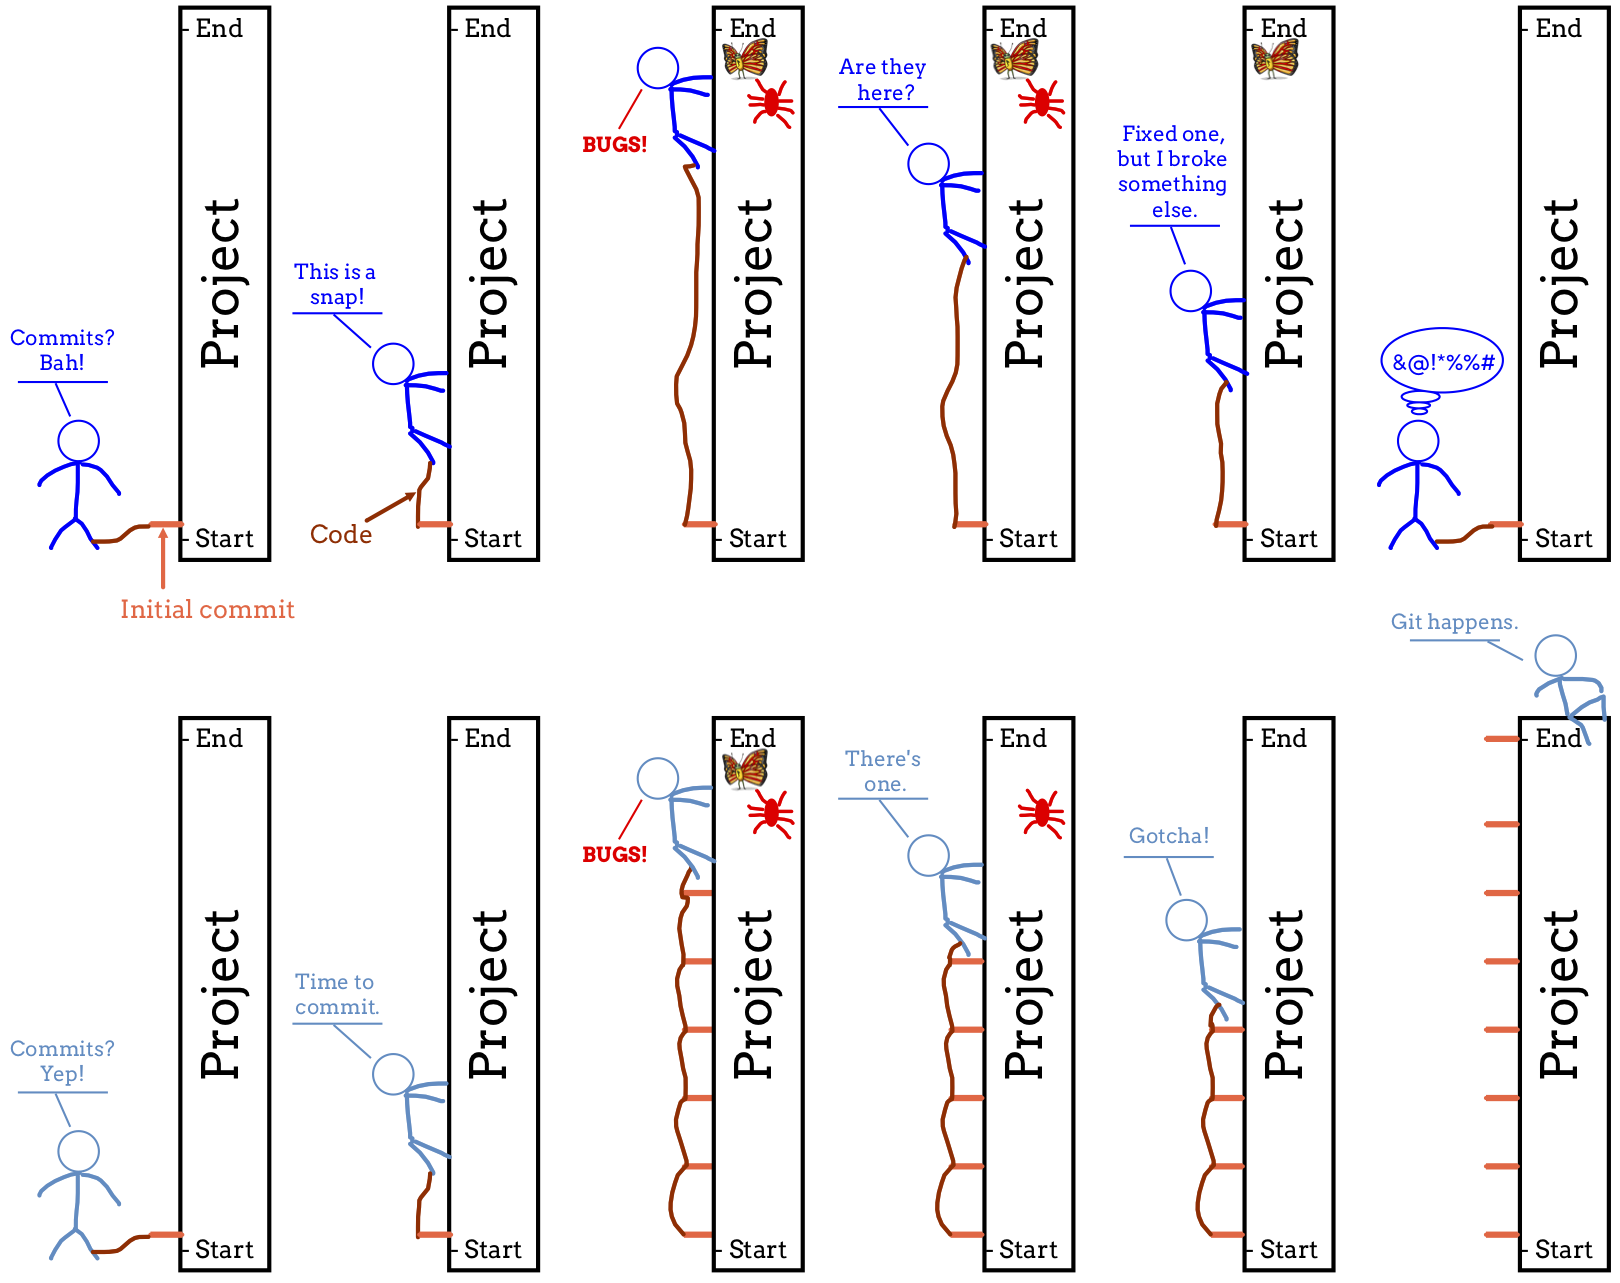
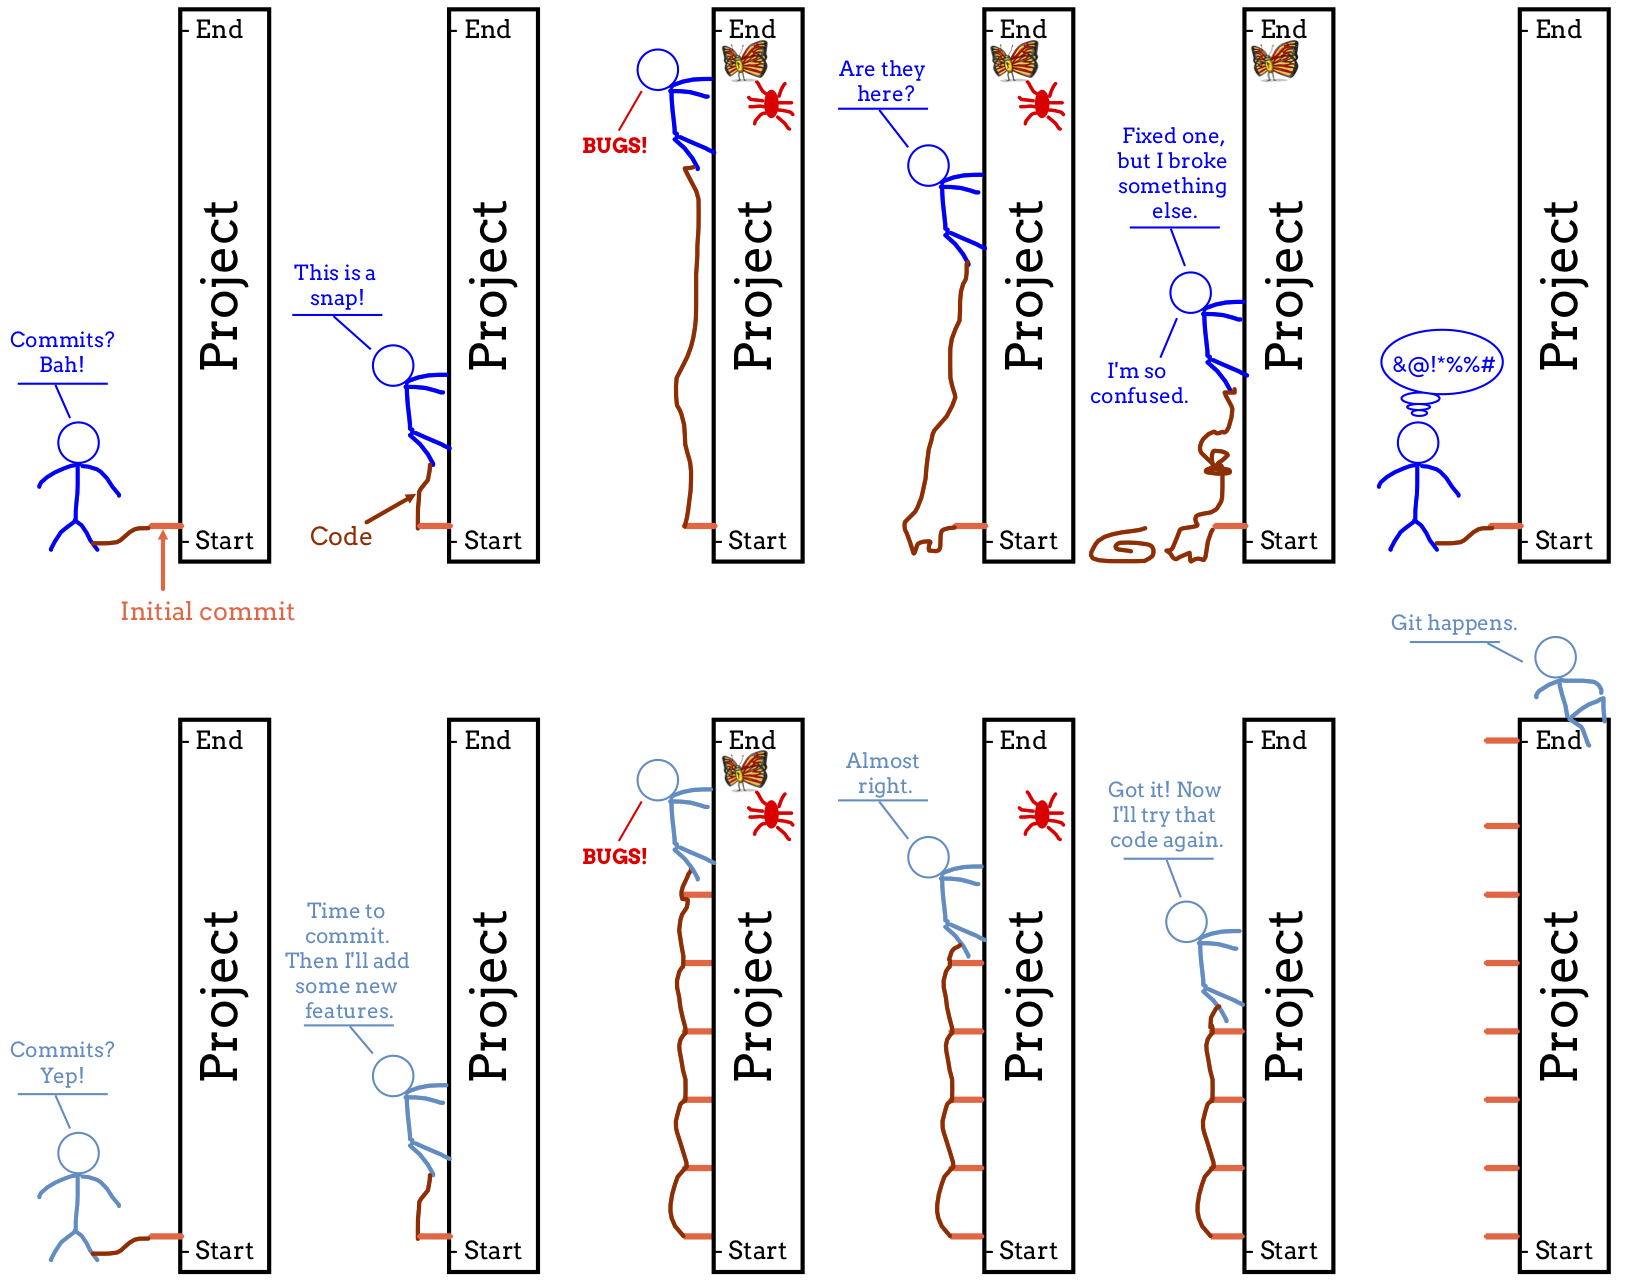
Added content to the log-nav.rst page.

diff --git a/src/chapters/git/log-nav.rst b/src/chapters/git/log-nav.rst
@@ -27,6 +27,8 @@ In the terminal, enter the command ``git log`` and examine the output. The
 command displays a record of every commit in the repository. The top entry is
 the most recent.
 
+.. _git-log-example:
+
 .. admonition:: Example
 
    The log for the three entries in the ``git_practice`` repo will look
@@ -61,25 +63,115 @@ the most recent.
 
 Each entry in the log contains four items:
 
-#. ``commit`` shows a 40-character long code. This code provides a key that Git
+#. ``commit`` shows a 40-character long code. This provides the key that Git
    uses to organize the commits in the repository.
 #. ``Author`` indicates who made the commit. This becomes important when
-   multiple coders work on the same project. For now, this line shows the name
-   used to login to the computer.
+   multiple coders work on the same project.
 #. ``Date`` indicates the day and time the commit was made.
 #. The indented line shows the comment saved with the commit. The more details
    we include in each comment, the easier it is to look through the log and
    know what changes were made between saves.
 
+Undo Changes Since Last Commit
+------------------------------
+
+New code usually doesn't work perfectly on the first try. This is especially
+true as our programs get larger.
+
+One big advantage of version control is that it allows us to save working code
+before we add and test a new feature. If the feature works, great! If not, we
+tinker with it until it does. However, sometimes we will just create a complete
+mess. When this happens, we need to step back, take a break, and then rethink
+how to make the feature work.
+
+Since we made a commit just before adding the new code, we can *restore* our
+most recent version. This wipes away all of the changes made since that commit.
+We can then start with our old, working code and try something different.
+
+Let's see how this works.
+
+.. admonition:: Try It!
+
+   Restoring your most recent commit acts like a great big *Undo*.
+
+   #. Add a few comment lines after the ``import`` statement in
+      ``num_guess.py``. It doesn't matter what you type, as long as you make
+      an obvious change.
+
+      .. sourcecode:: python
+         :linenos:
+
+         import random
+
+         # Git pun number 1...
+         # Git pun number 2...
+         # This lets us git some practice.
+
+   #. Save your work in VS Code, but do NOT commit it.
+   #. Use ``git status`` to verify that you have uncommitted changes in the
+      file.
+
+      ::
+
+         $ git status
+         On branch master
+         Changes not staged for commit:
+         (use "git add <file>..." to update what will be committed)
+         (use "git checkout -- <file>..." to discard changes in working directory)
+
+               modified:   num_guess.py
+
+         no changes added to commit (use "git add" and/or "git commit -a")
+
+   #. Now enter the following command in the terminal. Pay close attention to
+      what happens to the comments you added in ``num_guess.py``.
+
+      ::
+
+        $ git reset --hard HEAD
+   
+   Whoa, the added statements disappear!
+
+**Syntax review**:
+
+#. ``git reset`` moves us backwards through the commit history.
+#. ``HEAD`` identifies the commit to move to. Looking at the output from the
+   :ref:`git log example <git-log-example>`, we see that the first entry is
+   labeled with ``(HEAD -> master)``. Think of ``HEAD`` like a bookmark in the
+   log.
+#. ``--hard`` removes all changes made after the ``HEAD`` commit.
+
+.. figure:: figures/git-reset.gif
+   :alt: The git reset command removes uncommitted changes from the files.
+
 Switching Between Commits
 -------------------------
 
-Lorem ipsum...
+What if we want to move further back in the commit history? This is possible.
+Git allows us to move the ``HEAD`` bookmark to any commit in the log. We can
+then ``reset`` to that state of the code and move forward from there.
 
-How to switch...
+However, this is not the best option. In fact, doing this is actively
+discouraged in the coding community. Consider this example:
 
-Note how the latest code "disappears" when switching to an earlier commit...
+.. admonition:: Example
 
-Restoring earlier commit...
+   Imagine that we move ``HEAD`` from the most recent commit back to the very
+   first one we made.
 
-Advancing code, make a mistake, and need to return to the most recent commit...
+   {IMAGE}
+
+   Next, we make some changes to the code and commit them. What happens to
+   the two old commits from the log?
+
+Once a commit is made, Git remembers it. Even though we ``reset`` to the very
+first commit in the log, the other two remain in the history. They form a dead
+end in our code, but they still appear in the log. They will be sandwiched
+between the first commit (now the ``HEAD``) and the next one we make. The log
+won't tell us, *Hey, these middle commits are not part of the path*. Resetting
+to anything but the most recent commit complicates the history.
+
+{IMAGE}
+
+Fortunately, Git offers us a nice way to experiment with our code and add new
+commits without disrupting the flow of the log.

diff --git a/src/chapters/git/repositories-and-commits.rst b/src/chapters/git/repositories-and-commits.rst
@@ -303,10 +303,10 @@ Check Your Understanding
    .. raw:: html
 
       <ol type="a">
-         <li><input type="radio" name="Q1" autocomplete="off" onclick="evaluateMC(name, false)"> <span style="color:#419f6a; font-weight: bold">git add .</span></li>
-         <li><input type="radio" name="Q1" autocomplete="off" onclick="evaluateMC(name, true)"> <span style="color:#419f6a; font-weight: bold">git init</span></li>
-         <li><input type="radio" name="Q1" autocomplete="off" onclick="evaluateMC(name, false)"> <span style="color:#419f6a; font-weight: bold">git commit -m "notes..."</span></li>
-         <li><input type="radio" name="Q1" autocomplete="off" onclick="evaluateMC(name, false)"> <span style="color:#419f6a; font-weight: bold">git status</span></li>
+         <li><input type="radio" name="Q1" autocomplete="off" onclick="evaluateMC(name, false)"> <code class="pre">git add .</code></li>
+         <li><input type="radio" name="Q1" autocomplete="off" onclick="evaluateMC(name, true)"> <code class="pre">git init</code></li>
+         <li><input type="radio" name="Q1" autocomplete="off" onclick="evaluateMC(name, false)"> <code class="pre">git commit -m "notes..."</code></li>
+         <li><input type="radio" name="Q1" autocomplete="off" onclick="evaluateMC(name, false)"> <code class="pre">git status</code></li>
       </ol>
       <p id="Q1"></p>
 
@@ -319,10 +319,10 @@ Check Your Understanding
    .. raw:: html
 
       <ol type="a">
-         <li><input type="radio" name="Q2" autocomplete="off" onclick="evaluateMC(name, false)"> <span style="color:#419f6a; font-weight: bold">git add .</span></li>
-         <li><input type="radio" name="Q2" autocomplete="off" onclick="evaluateMC(name, false)"> <span style="color:#419f6a; font-weight: bold">git init</span></li>
-         <li><input type="radio" name="Q2" autocomplete="off" onclick="evaluateMC(name, true)"> <span style="color:#419f6a; font-weight: bold">git commit -m "notes..."</span></li>
-         <li><input type="radio" name="Q2" autocomplete="off" onclick="evaluateMC(name, false)"> <span style="color:#419f6a; font-weight: bold">git status</span></li>
+         <li><input type="radio" name="Q2" autocomplete="off" onclick="evaluateMC(name, false)"> <code class="pre">git add .</code></li>
+         <li><input type="radio" name="Q2" autocomplete="off" onclick="evaluateMC(name, false)"> <code class="pre">git init</code></li>
+         <li><input type="radio" name="Q2" autocomplete="off" onclick="evaluateMC(name, true)"> <code class="pre">git commit -m "notes..."</code></li>
+         <li><input type="radio" name="Q2" autocomplete="off" onclick="evaluateMC(name, false)"> <code class="pre">git status</code></li>
       </ol>
       <p id="Q2"></p>
 

diff --git a/src/chapters/git/index.rst b/src/chapters/git/index.rst
@@ -8,8 +8,8 @@ Git Some Control
    background
    repositories-and-commits
    log-nav
-   remote-repository
    branches
    merge
+   remote-repository
    exercises
    project
